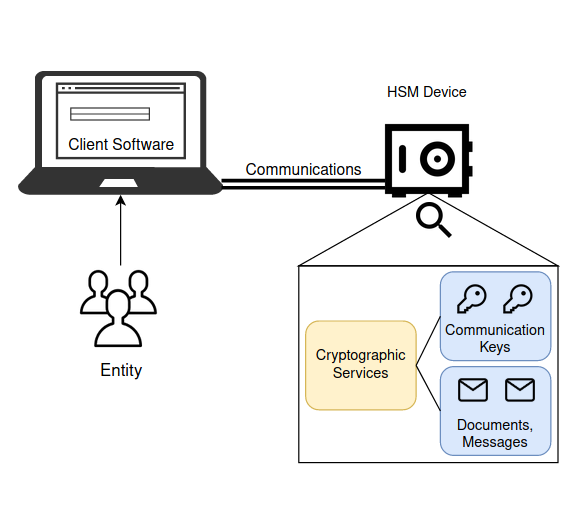
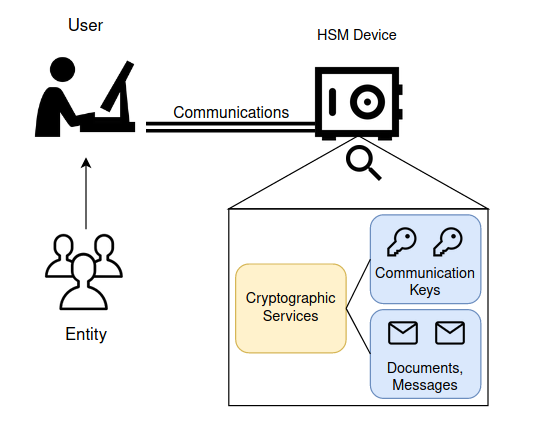
Polished architecture chapter 4

diff --git a/Chapters/Thesis-MSc-Chapter_4.tex b/Chapters/Thesis-MSc-Chapter_4.tex
@@ -8,9 +8,9 @@
 % The following line allows to ref this chapter
 \label{chap:arch}
 
-The fundamental objective of the system was to develop a portable device which enables users and entities to establish safe channels of communication.
-A solution was developed on a portable \ac{HSM}, which secures communications between users, saves the owners's sensitive data, such as keys and documents, and performs all security critical operations. This is an easy process for the owner, who does not need to worry about any setup or management, the system is acessible and ready to use, when delivered.
-This chapter presents an overview of the developed system, its services, communications protocol and use cases, unconstrained by a specific physical device.
+The fundamental objective of the system was to develop a portable device which enables entities to establish secure channels of communication.
+A solution was developed on a portable \ac{HSM}, which secures communications between users, saves the owners's sensitive data, such as keys and documents, and performs all security critical services. This is an easy process for the owner, who does not need to concern himself with any setup or management, the system is acessible and ready to use when delivered.
+This chapter presents an overview of the developed system, its services, the communications protocol and use cases, unconstrained by a specific physical device.
 
 % The system is designed so that each user, either an individual or entity, has it's own physical device.
 
@@ -19,67 +19,60 @@ This chapter presents an overview of the developed system, its services, communi
 \section{Overview}\label{chap:arch:overview}
 
 %% COMPONENTS INTRODUCTION %%
-The system, pictured in figure~\ref{fig:overview}, is composed of two main components: the physical device, responsible for all operations, and the client software on the user's computer, which provides a simple interface to the user.
+The system, pictured in figure~\ref{fig:overview}, is composed of two main components: the physical device, responsible for all operations, and the application on the user's computer, which provides a straightforward interface to users.
 
 \begin{figure}[h]
     \centering
-    \includegraphics[width=0.75\textwidth]{./Images/overview.png}
+    \includegraphics[width=0.7\textwidth]{./Images/overview.png}
     \caption{System Overview}
     \label{fig:overview}
 \end{figure}
 
 %% SYSTEM OVERVIEW %%
-The client's computer running the software, is connected to the device through a physical connection, used to send and receive data and commands. A simple application for the client's computer was developed to interface with the device.
-Using these tools, the entity can signal the device to perform the desired operations.
-The implemented services are available inside the device, which stores and manages keys, as well as documents.
-If the device is misplaced or stolen, the stored keys and documents are not at risk of being compromised or extracted. The developed software and physical tamper measures ensure it.
-Upon receiving their device, each user is only required to plugin it into a power socket, and to their computer using the appropriate cable, and the system is ready to use, through the provided client software.
-% All data is either stored in the secure eNVM portion, or in the non-volatile memory, encrypted with an internal \ac{KEK}.
+The user's computer running the software, is connected to the device through a physical connection, used to send and receive data and commands.
+Using these tools, the user can command the device to perform the desired services.
+These services are implemented inside the device, which stores and manages keys, as well as other data.
+If the device is misplaced or stolen, the stored keys and documents are not at risk of being extracted. The developed software and physical tamper measures ensure it.
+Upon receiving their device, each user is only required to plugin it into a power socket, and to their computer using the appropriate cable, and the system is ready to use, through the provided interface software.
 
 %% SERIAL PORT COMMUNICATIONS INTRODUCTION %%
-All data and operations will flow through a serial connection between the client software in the individual's computer and the physical box. A communication protocol which sets the communication rules is defined in the next section.
+All data and commands will flow through a serial connection between the interface software in the individual's computer and the physical box. A communication protocol which sets the communication rules is defined in the next section.
 The serial port connection transmits data one block at a time, each block contains a maximum of 16 bytes.
 Data is organized in fields, each field has a fixed number of bytes to hold a specific piece of data.
-The protocols are organized in transmissions. One transmission is two messages, one message from the client interface to the device, and another in the reverse direction.
+The protocols are organized in transmissions. One transmission is two messages, one message from the computer to the device, and another in the reverse direction.
 
 % -----------------------------------------------------
 % -----------------------------------------------------
 \section{Services Protocols}\label{chap:arch:services}
 
-This next section will describe the services and their communication protocol between the client application and the hardware device. Each service's goal, exchanged information and algorithms are detailed.
-Firstly it presents the authentication, then main services, divided in their objective, secure data exchange or new communications.
-In the protocol diagrams which will be presented next, data flowing in the same direction consecutively may be shown separately in separate messages. This is only for visibility purposes, in practice, the data is sent together, each in its own field with a defined number of bytes.
+%% INTRODUCTION TO SECTION %%
+This next section will describe the services and their communication protocol between the interface application and the hardware device. Each service's goal, exchanged information and algorithms are detailed.
+Firstly it presents the authentication, then main services, divided in their objective, secure data exchange or new communications. %% ADD DIGITAL SIGNATURES REFERENCE
+In the diagrams representing the protocols, multiple consecutive pieces of data flowing in the same direction are separated in distinct messages for visual purposes only. In practice, the data is sent in one message, each in its own field with a defined number of bytes.
 
 % -----------------------------------------------------
 % \subsection{Initial State}\label{chap:arch:services:initial-state}
 
 %% DEVICE STATE FROM FABRIC %%
 The device will come from fabric configured and prepared with the necessary keys to secure communications.
-Before acquiring the device, each entity can provide a list of entities whom they wish to securely communicate. The device will then be delivered to each entity with the necessary keys. This allows owners to begin to communicate immediately, with no setup necessary.
+Before acquiring the device, each entity can provide a list of entities with whom they wish to securely communicate. The device will then be delivered to each entity with the necessary keys. This allows owners to begin to communicate immediately, with no setup necessary.
 Additionally the device is delivered with the necessary functionality and keys, so all devices can establish new communications with new entities. This provides the flexibility of secure data exchange with a new entity, without having to send the device back to the control station or fabric, to be loaded with the necessary keys.
-% depending on two scenarios. In the simpler scenario, the device comes with the symmetric keys already shared and stored in each entities' device.
-% In the other scenario, the entities will receive the device with a pair of asymmetric keys, a private and public, generated inside the device from fabric. Each device will have the user's public keys, whom he wishes to communicate. The entity can request whose public keys he wants, before the device is initialized in fabric. This allows the users to share symmetric keys between them, which they can user to begin trading data securely.
-
-Any user needs to be authenticated through a \ac{PIN} number in order to access the system operations. This way, each entity with multiple users can organically handle which users are authorized to handle the system by handing out the corresponding \ac{PIN} number.
-The device comes from fabric with a default authentication \ac{PIN}, which is supplied to the owners. It can be changed at any time by an authenticated user.
-To authenticate himself to the device, the user sends a \ac{PIN} through the software, the device then compares it to the authentication number securely stored inside it. Once authenticated, the session will be unlocked, and the user will be able to perform operations.
 
 % -----------------------------------------------------
 \subsection{Authentication}\label{chap:arch:services:auth}
 
-Before executing any operation the user must authenticate himself to the device.
+Any user needs to be authenticated through a \ac{PIN} number in order to access the system operations. This way, each entity with multiple users can organically handle which users are authorized to access the device, by handing out the corresponding \ac{PIN} number.
+The device comes from fabric with a default authentication \ac{PIN}, which is supplied to the owners. It can be changed at any time by an authenticated user.
+To authenticate himself to the device, the user sends the operation code, and \ac{PIN} through the software, the device then compares it to the authentication number securely stored inside it, and receives an appropriate failure or success status. Once authenticated, the session will be unlocked, and the user will gain access to all services.
 Figure~\ref{fig:protocol:login} depicts the login protocol.
+The user is allowed to change the login \ac{PIN}. The protocol is exactly the same as the login, with the exception that the supplied \ac{PIN} is the new \ac{PIN} which will overwrite the current. The user will receive an error status if not logged in.
 
 \begin{figure}[h!]
 	\centering
 	\includegraphics[width=0.50\textwidth]{./Images/authentication.png}
-	\caption{Communications protocol to login and change login PIN}
+	\caption{Login and PIN change communication protocol}
 	\label{fig:protocol:login}
 \end{figure}
-
-If the user is not authenticated, only the authentication operation is allowed. The communication is initiated by the client interface. It sends the operation code and the login \ac{PIN}.
-The device responds with an appropriate failure or success status. If successful, the session will be unlocked, allowing the user access to all other operations.
-The user is allowed to change the login \ac{PIN}. The protocol is exactly the same as the login, with the exception that the supplied \ac{PIN} is the new \ac{PIN} which will overwrite the current. The user will receive an error status if not logged in.
 
 % -----------------------------------------------------
 \subsection{Secure Data Exchange}\label{chap:arch:services:data-exchange}
@@ -93,9 +86,9 @@ The communication protocol is illustrated in figure~\ref{fig:protocol:data-excha
 	\label{fig:protocol:data-exchange}
 \end{figure}
 
-The first transmission is started by the client sending the operation code and key ID, which identifies the internal \ac{HSM} key used to encrypt and authenticate.
-The device returns a status message. If the key ID was invalid or the user is not authenticated, the status is an error.
-In the second transmission the client application sends the data length, followed by the data to be encrypted and authenticated internally.
+The first transmission is started by the user, by sending the operation code and key ID, which identifies the internal \ac{HSM} key used to encrypt and authenticate.
+The device returns a status message. If the key ID was invalid or the user is not authenticated, it is an error.
+In the second transmission the user application sends the data length, followed by the data to be encrypted and authenticated internally.
 Afterwards, the device start the encryption process and \ac{MAC} generation. When finished, the devices outputs the result length and result data. If there is a processing error, the result length is 0.
 
 The protocol for decryption and encryption is identical. The only difference is in the transmitted data. For the encryption service, the device receives the plaintext data and returns a message with the generated \ac{MAC}, \ac{IV} and encrypted data. For decryption, the device receives the \ac{MAC}, \ac{IV}, ciphertext, and returns the original plaintext.
@@ -106,7 +99,7 @@ The protocol for decryption and encryption is identical. The only difference is 
 \end{equation}
 
 The encryption service is pictured in \ref{eq:encrypt-mac}.
-First, the plaintext data is encrypted with a symmetric key and a randomly generated \ac{IV}. Next a \ac{MAC} is generated from the concatenated \ac{IV} and ciphertext.
+First, the plaintext data is encrypted with \ac{AES} \ac{CTR} mode, a symmetric key and a randomly generated \ac{IV}. Next a \ac{MAC} is generated, with the \ac{HMAC} algorithm, from the concatenated \ac{IV} and ciphertext.
 
 \begin{equation}
 	\label{eq:decrypt-mac}
@@ -114,15 +107,14 @@ First, the plaintext data is encrypted with a symmetric key and a randomly gener
 \end{equation}
 
 The decryption service is depicted in \ref{eq:decrypt-mac}.
-A new \ac{MAC} is generated from the concatenated \ac{IV} and ciphertext received. Then the received and computed {MAC}s are compared. If identical, the data is authenticated, and the ciphertext is decrypted with the same symmetric key used for encryption and the \ac{IV}, to obtain the plaintext.
-In the final stage, after the box has finished the cryptographic operations, the device sends the result size to the client, waits for an OK message and returns the result.
+A new \ac{MAC} is generated from the concatenated \ac{IV} and ciphertext received. Then the received and computed {MAC}s are compared. If identical, the data is authenticated, and the ciphertext is decrypted with the same internal symmetric key used for encryption and the \ac{IV}, to obtain the plaintext.
+In the final stage, after the box has finished the cryptographic operations, the device sends the resulting data and its size to the user.
 
 % ----------------------------------
 \subsection{Qualified Digital Signatures}\label{chap:arch:services:signatures}
 
-The system offers qualified digital signatures, which provide \textbf{non-repudiation} to a piece of data, using a private key generated inside the box. The user sends the data to the box, and the subsequent signature will be returned as pictured in figures~\ref{fig:protocol:signature-generate} and~\ref{fig:protocol:signature-verify}.
-The next protocols are relating to the generation and verification of digital signatures.
-The communication protocol for generation is represented in figure~\ref{fig:protocol:signature-generate}.
+The system offers qualified digital signatures, which provide non-repudiation to a piece of data, using a private key generated inside the box from fabric.
+The communication protocol for signature generation and verification are represented in figures~\ref{fig:protocol:signature-generate} and \ref{fig:protocol:signature-verify}.
 
 \begin{figure}[h!]
 	\centering     %%% not \center
@@ -131,10 +123,10 @@ The communication protocol for generation is represented in figure~\ref{fig:prot
 	\caption{Communication protocol for generating digital signatures and verifying the signatures using the internal HSM asymmetric key pair}
 \end{figure}
 
-The protocols have one transmission. Messages are separated for readability.
-The client application sends the operation code, data length and data to be signed.
+% The protocols are composed of one transmission. Messages are separated for readability.
+The interface application sends the operation code, data length and data to be signed.
 The qualified digital signature will be generated using the internal private key and the data. Afterwards the device responds with the signature length and generated signature.
-The device will generate the digital signature using the device's private key and a hash function according to the equation \ref{eq:signature-generate}.
+The device generates the signature with the device's private \ac{ECC} key, an implementation of the \ac{ECDSA} algorithm and the \ac{SHA}-256 hash function according to the equation \ref{eq:signature-generate}.
 
 \begin{equation}
 	\label{eq:signature-generate}
@@ -142,66 +134,61 @@ The device will generate the digital signature using the device's private key an
 \end{equation}
 
 The protocol for verifying digital signatures is pictured in figure~\ref{fig:protocol:signature-verify}.
-The client sends the operation code, signature length and generated signature, as well as the data length and data from which the signature was generated. The last piece the client sends is the public key of the device where the signature was generated.
-
+The user sends the operation code, signature length and generated signature, as well as the data length and data from which the signature was generated. The last piece the user sends is the public key of the device where the signature was generated.
 After verifying the signature, the device responds with the operation status.
-The data is verified using a hash function and the board's \ac{ECC} services, as detailed in \ref{eq:signature-verify}.
+The data is verified using the same hash function, \ac{ECDSA} algorithm, and the signers' public key, as detailed in \ref{eq:signature-verify}.
+% The hash is generated from the data. The result is compared with the value obtained from the decryption of the signature using the signer's public key. The signature is verified if the values are identical.
 
 \begin{equation}
 	\label{eq:signature-verify}
-	\{Hash\{Data\}\} == Decrypt_{K_{-1}}\{Signature\}
+	\{Signature\} == Verify_{K_{-1}}\{Hash\{Data\}\}
 \end{equation}
-
-The hash is generated from the data using the same hash function as the signer. The result is compared with the value obtained from the decryption of the signature using the signer's public key. The signature is verified if the values are identical.
 
 % -----------------------------------------------------
 \subsection{New Communications}\label{chap:arch:services:new-comms}
 
 As introduced before, the device provides the flexibility to establish communications with other entities, even new ones, not previously requested by the user.
 The device can also import a new set of keys, provided by the control station.
-This way already established channels of communication can be updated in a regular time schedule defined by the entities, in other to maintain secure communications, with the desired entities.
-
-When a user wants to communicate with a new entity, the system provides two convenient solutions. The user can securely contact the control station at any time to request the public information of the other entity, through the secure data exchange service, equivalent to communicating with any other entity.
-Then the user needs to send the information through the client software to the device. The new key is generated in the device and made available right away. Then data can be exchanged with the new entity, which must also request the control station for the analogous entity's public information.
-This service allows establishing connections with new entities when needed, by way of trusted third party, the control station. 
+This way already established channels of communication can be updated on a regular time schedule.
+When a user wants to communicate with a new entity, the system provides two convenient solutions.
+Both options allows establishing connections with new entities when needed, by way of trusted third party: a control station. 
+The user can securely contact the control station at any time to request the public information of the other entity, through the secure data exchange service, equivalent to communicating with any other entity.
+Then the user needs to send the information through the interface software to the device. The new key is generated in the device and made available right away. Then data can be exchanged with the new entity, which must also request the control station for the analogous entity's public information.
 
 The system can also be setup with a regular communication update schedule. It grants the flexibility of key revocation when needed, data exchange with new entities, as well as updating communication keys which have reached their expiration date, with no additional complexity to the user, to always safeguard the security of communications.
 Each month an entity can hand over a list of the entities it wishes to communicate with to the control station, which will accordingly yield the corresponding key set.
 Each entity only needs to forwards the list to the device, and the new keys are immediately stored and ready to be used.
 Users can resume communications, same way as before with minimal interruption, with the requested entities.
-
+The protocols for both services are detailed next: symmetric key generation and importation of keys.
 % -----------------------------------------------------
-\subsubsection{ECDH Protocol}\label{chap:arch:services:new-comms:ecdh}
+\subsubsection{Key Generation}\label{chap:arch:services:new-comms:ecdh}
 
-The protocols for the communication management operations are detailed next, namely for symmetric key generation. The protocol to generate a new symmetric key with another entity using asymmetric cryptography is detailed in figure~\ref{fig:protocol:ecdh}.
-
+The protocol to generate a new symmetric key with another entity using asymmetric cryptography is detailed in figure~\ref{fig:protocol:ecdh}.
 \begin{figure}[h!]
 	\centering
 	\includegraphics[width=0.60\textwidth]{./Images/ecdh.png}
-	\caption{Communication protocol to generate symmetric keys, with the HSM internal private key, and stored them internally}
+	\caption{Communication protocol to generate symmetric keys, with an internal private key, to be stored internally}
 	\label{fig:protocol:ecdh}
 \end{figure}
 
-% The device calls the ECDH algorithm with its private key and the received public key to generate a secret and run it through a key derivation function with the salt value to obtain the new symmetric key. The service's formula is thus:
-The user forwards the operation code, public key and salt value to the device.
-The device will then generate a symmetric key, using the process in equation \ref{eq:ecdh-kdf}.
-
+% The user forwards the operation code, public key and salt value to the device.
+The user forwards the device, the operation code and the public information from the central station: the foreign entity's public key and an additional public salt component.
+The generation process in \ref{eq:ecdh-kdf} is thus: First, a secret is computed with the \ac{ECDH} algorithm, using the device's private key and the received public key. The secret is run through a key derivation function with the salt value to obtain a new symmetric key.
+% The device will then generate a symmetric key, using the process in equation \ref{eq:ecdh-kdf}.
 \begin{equation}
 	\label{eq:ecdh-kdf}
 	KDF\{ECDH_{K}\{K^{-1}\}, Salt\}
 \end{equation}
 
-A secret is generated from the \ac{ECDH} algorithm, with the device's private key, and another entity's public key. The same secret can be generated with the device's public key and the other entity's private key. 
-This secret is run through a key derivation function in conjunction with a salt which can be public, to generate a symmetric key. If both entities generate the same secret and agree on the same salt value, the generated key is identical.
-
-The new key is then stored in non-volatile memory encrypted with the dedicated symmetric encryption key for storage, saved in its PUF slot.
+The same secret can be generated with the device's public key and the foreign entity's private key, in their device. If both entities receive each other's public keys and agree on the same salt value, through the central station, the generated key is identical.
 A new unique ID is generated for the key, which is stored alongside the key in memory. This ID is returned to the user along with the operation success status.
+% The new key is then stored in non-volatile memory encrypted with the dedicated symmetric encryption key for storage, saved in its PUF slot.
 
 % -----------------------------------------------------
-\subsubsection{Import Keys Protocol}\label{chap:arch:services:new-comms:import}
+\subsubsection{Import Keys}\label{chap:arch:services:new-comms:import}
 
 This section details the protocol to import a list of encrypted symmetric keys, into the device.
-The imported keys must be encrypted with a preset symmetric key, stored inside the device, using \ac{AES} \ac{CTR} mode and authenticated with \ac{HMAC}. This service is useful so a central management section with a similar device can distribute keys to the enrolled entities, on a regular schedule, such as monthly.
+The imported keys must be encrypted with a preset symmetric key, stored inside the device from fabric, using the secure data exchange service. Thus, a central management section with a similar device can distribute keys to the enrolled entities, on a regular schedule.
 The protocol for the service is pictured in figure \ref{fig:protocol:import-keys}.
 
 \begin{figure}[h!]
@@ -211,11 +198,10 @@ The protocol for the service is pictured in figure \ref{fig:protocol:import-keys
 	\label{fig:protocol:import-keys}
 \end{figure}
 
-The only transmission consists in the client sending the operation code, keys length and key data. Then, the device decrypts and authenticates the keys using a predefined symmetric key stored in a secure PUF slot. The protocol used is the same for secure data exchange described in the previous section.
-
+The only transmission consists in the user sending the operation code, keys length and key data. Then, the device decrypts and authenticates the keys using a predefined symmetric key stored in the device's secure memory. The protocol used is the same for secure data exchange described in an earlier section.
 Each key consists of 1 byte for its ID, 1 byte for its size and remaining bytes for the key data.
-The decrypted list of keys is encrypted and authenticated again, using the same algorithms with a dedicated symmetric key for storage in memory. The ciphertext, randomly generated IV and ciphertext length are stored in memory. To provide authentication and thus protection against tampering, a \ac{MAC} is generated from the three pieces of data and stored in secure storage, separate from the keys and IV.
-In order to fetch a stored symmetric key to use in one of the implemented services, the \ac{MAC} is generated and compared to the existing. If identical, the keys can be decrypted from memory and a specific key identified through ID.
+The decrypted list of keys is encrypted and authenticated again, with a dedicated symmetric key for storage in memory. The ciphertext, randomly generated IV and ciphertext length are stored in memory. To provide authentication and thus protection against tampering, a \ac{MAC} is generated from the three pieces of data and stored in secure storage, separate from the keys and IV.
+In order to fetch a stored symmetric key to use in one of the implemented services, the \ac{MAC} is generated and compared to the existing. If identical, the keys can be decrypted from memory and a specific key identified through its ID.
 
 % When a symmetric key is revocated, due to reaching its expiration date, or from being compromised, entities can generate a new one, using the aforementioned procedure, with an additional parameter for the key derivation function, to generate a completely new and unique key.
 % Import
@@ -231,6 +217,6 @@ In order to fetch a stored symmetric key to use in one of the implemented servic
 % -----------------------------------------------------
 \section{Summary}\label{chap:arch:summary}
 
-This section described the system's functionalities in a practical approach with examples for end users.
+This section described the system's functionalities, algorithms and communications protocols, between a secure and portable device, and a user's computer.
 The system grants secure communications between any number of users, as soon as they receive the device, without overloading the users with convoluted tasks or responsibilities.
 It is very flexible in allowing entities to manage the authorized user's to their devices and with whom they wish to communicate, by offloading this management component and responsibility to a trusted control station.

diff --git a/Chapters/Thesis-MSc-Chapter_5.tex b/Chapters/Thesis-MSc-Chapter_5.tex
@@ -62,6 +62,7 @@ This section presents the implementation details of the HSM's services and imple
 % -----------------------------------------------------
 % -----------------------------------------------------
 \section{Implementation}\label{chap:implementation:app}
+% All data is either stored in the secure eNVM portion, or in the non-volatile memory, encrypted with an internal \ac{KEK}.
 
 This section contains all details about the developed implementation on the Hardware Security Module device and client interface.
 

diff --git a/Chapters/Thesis-MSc-Acronyms.tex b/Chapters/Thesis-MSc-Acronyms.tex
@@ -20,6 +20,7 @@
 	\acro{ECB}{Electronic Codebook}
 	\acro{ECC}{Elliptic-Curve Cryptography}
 	\acro{ECDH}{Elliptic-Curve Diffie-Hellman}
+	\acro{ECDSA}{Elliptic Curve Digital Signature Algorithm}
 	\acro{FPGA}{Field-Programmable Gate Array}
 	\acro{GCM}{Galois/Counter Mode}
 	\acro{HMAC}{Hash-based Message Authentication Code}
